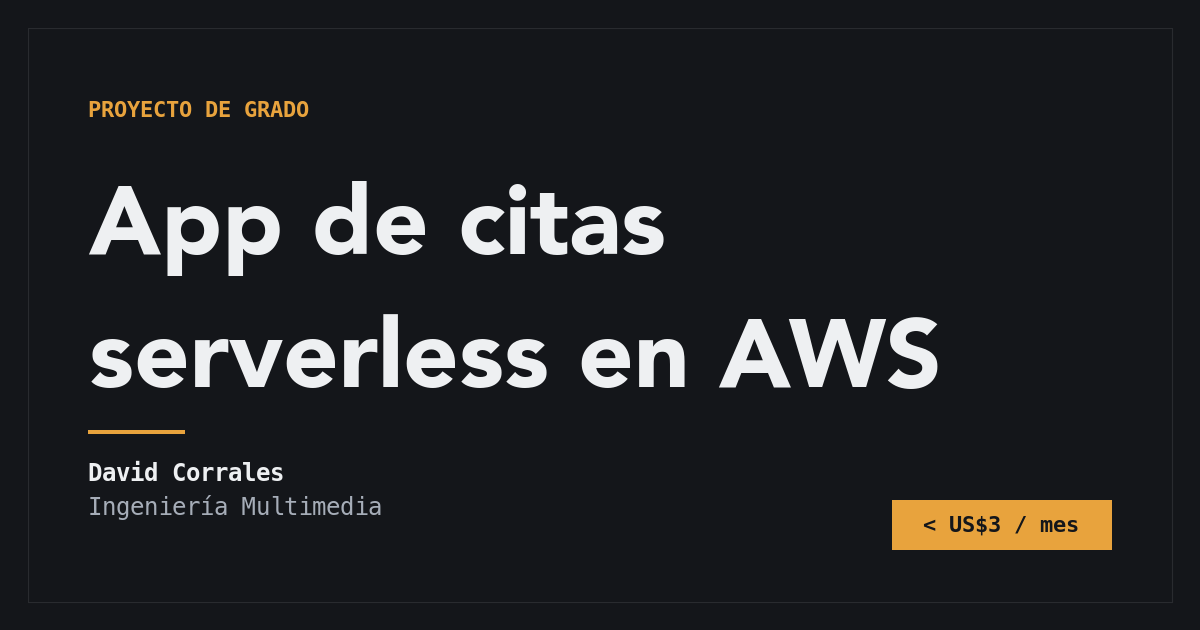
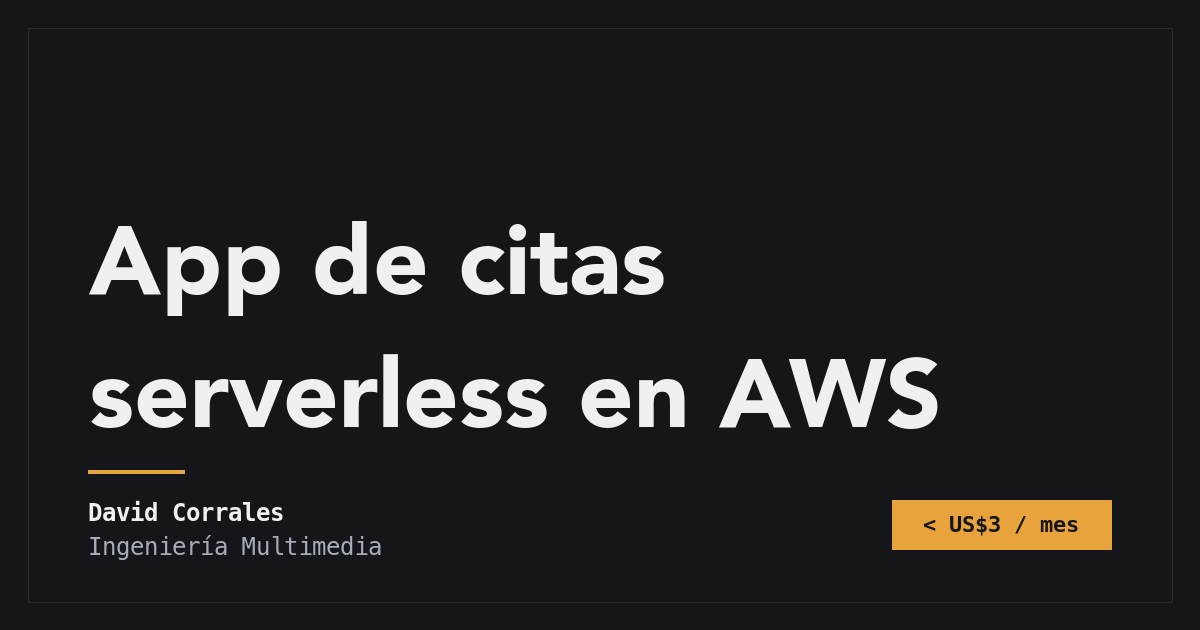
fix: quitar menciones a "proyecto de grado" en /aws

Changed region(s): [[0.0617, 0.2714, 0.8017, 0.6937], [0.0617, 0.7238, 0.3392, 0.9048], [0.0617, 0.1508, 0.2775, 0.2111]]

diff --git a/aws/index.html b/aws/index.html
@@ -6,7 +6,7 @@
   <title>App de citas serverless en AWS | David Corrales</title>
   <meta
     name="description"
-    content="Pitch del proyecto de grado de David Corrales: una app de citas serverless en AWS con Lambda, DynamoDB, S3 y API Gateway, operando por menos de US$3 al mes."
+    content="Pitch de David Corrales: una app de citas serverless en AWS con Lambda, DynamoDB, S3 y API Gateway, operando por menos de US$3 al mes."
   />
   <meta name="theme-color" content="#14161a" />
   <link rel="canonical" href="https://davidcorrales.dev/aws" />
@@ -17,7 +17,7 @@
   <meta property="og:title" content="App de citas serverless en AWS" />
   <meta
     property="og:description"
-    content="Proyecto de grado: arquitectura serverless en AWS que escala sola y cuesta menos de US$3 al mes. Presentación en diez diapositivas."
+    content="Arquitectura serverless en AWS que escala sola y cuesta menos de US$3 al mes. Presentación en diez diapositivas."
   />
   <meta property="og:url" content="https://davidcorrales.dev/aws" />
   <meta property="og:image" content="https://davidcorrales.dev/img/og-aws.png" />
@@ -25,14 +25,14 @@
   <meta property="og:image:height" content="630" />
   <meta
     property="og:image:alt"
-    content="App de citas serverless en AWS, proyecto de grado de David Corrales."
+    content="App de citas serverless en AWS, por David Corrales."
   />
 
   <meta name="twitter:card" content="summary_large_image" />
   <meta name="twitter:title" content="App de citas serverless en AWS" />
   <meta
     name="twitter:description"
-    content="Proyecto de grado: arquitectura serverless en AWS que escala sola y cuesta menos de US$3 al mes."
+    content="Arquitectura serverless en AWS que escala sola y cuesta menos de US$3 al mes."
   />
   <meta name="twitter:image" content="https://davidcorrales.dev/img/og-aws.png" />
 
@@ -68,7 +68,7 @@
       id="deck"
       role="group"
       aria-roledescription="carrusel"
-      aria-label="Pitch del proyecto de grado, 10 diapositivas"
+      aria-label="Pitch de la app de citas serverless en AWS, 10 diapositivas"
     >
       <!-- ===================== 1. Portada ===================== -->
       <section
@@ -81,8 +81,8 @@
         <h1 class="cover-title">App de citas serverless en AWS</h1>
         <div class="cover-rule"></div>
         <p class="cover-meta">
-          <strong>Proyecto de grado</strong>
-          <span>David Corrales, Ingeniería Multimedia</span>
+          <strong>David Corrales</strong>
+          <span>Ingeniería Multimedia</span>
           <span>Universidad de San Buenaventura Cali</span>
         </p>
       </section>
